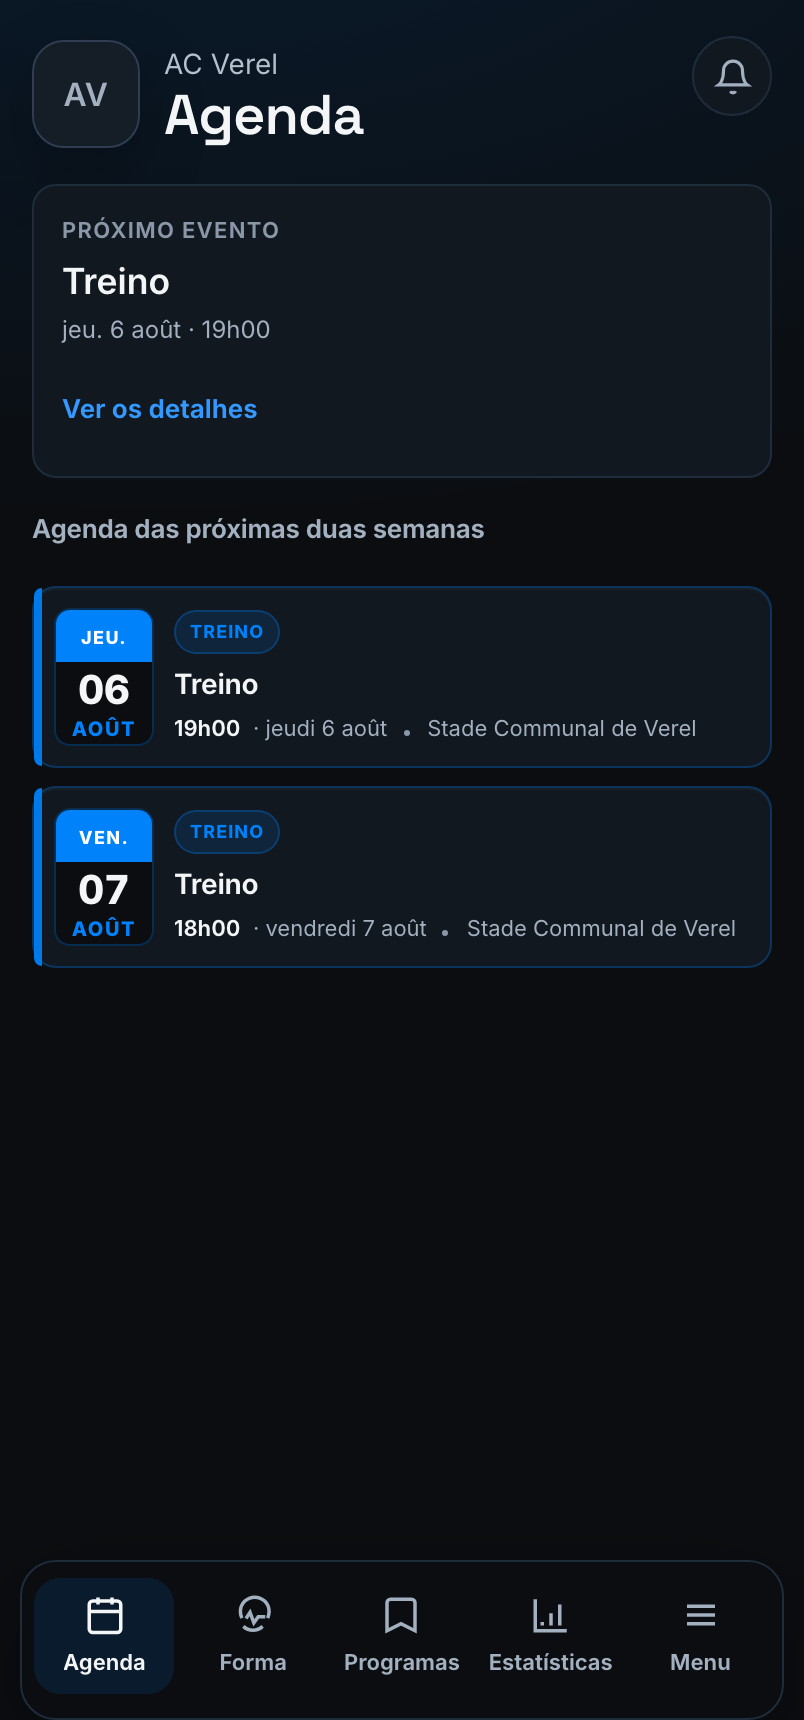
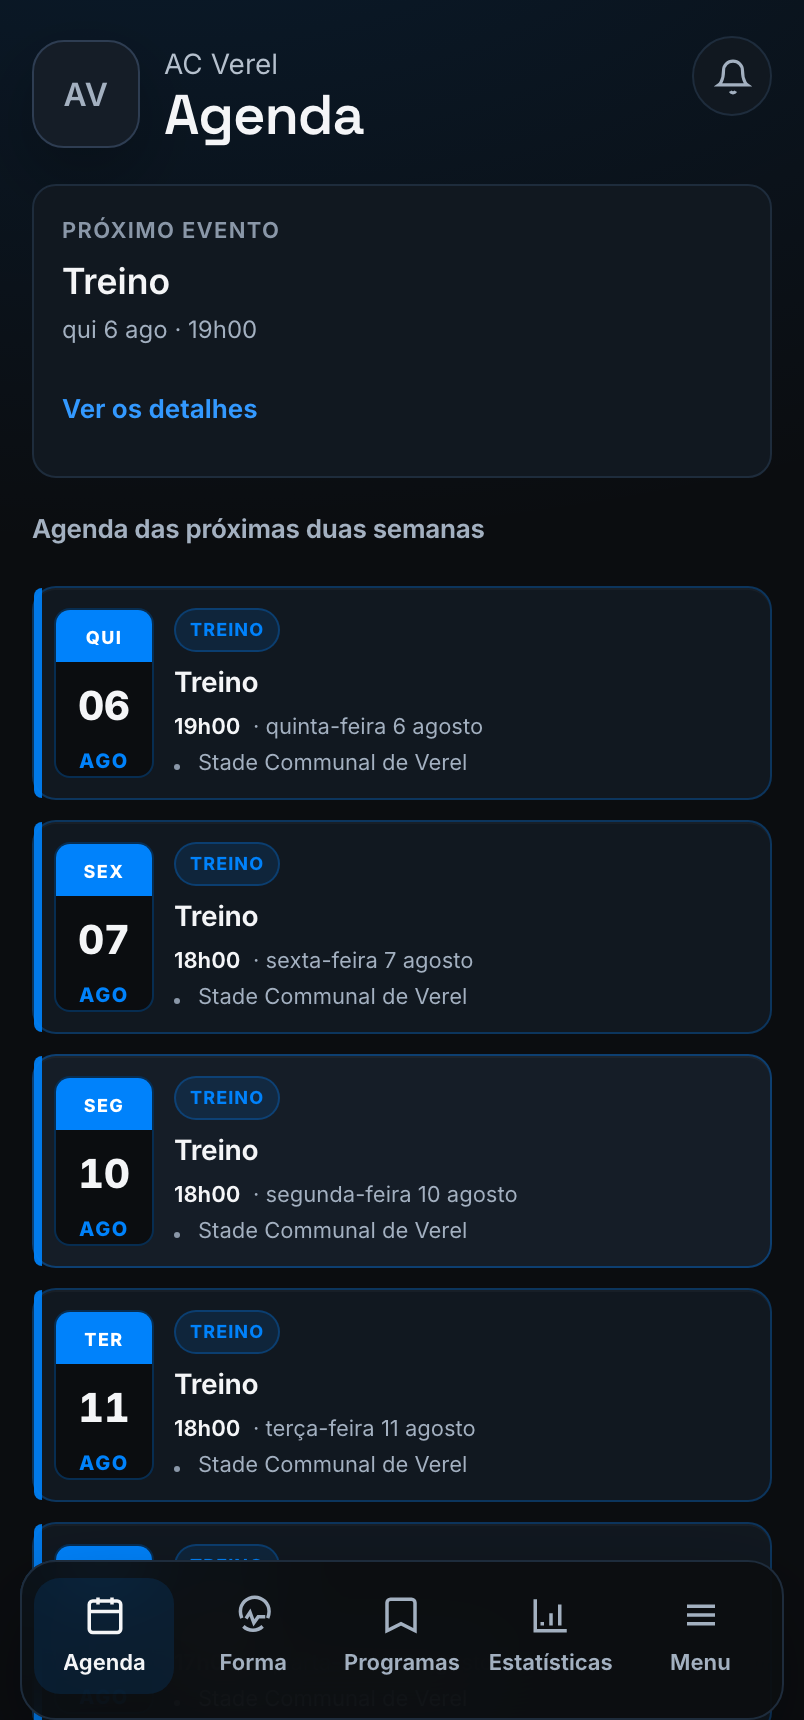
Localize the landing player-app shot and 5 more PT/ES screenshots
The /pt/ and /es/ landing pages showed a French screenshot of the player
app. It was a hand-exported native-iOS image hardcoded in
PremiumLanding.astro with no locale switching, so every locale got the
French one — /en/ included. The orphaned player-app-agenda-en.png never
fixed that: nothing referenced it, and its content was French too.

Replace it with a pipeline capture (capture/player-app-shot.mjs: the
portal agenda, cropped just above the bottom tab bar) in fr/en/pt/es, and
make the <img> locale-aware, sized via pngSize() like the carousels.
nl/de fall back to the English shot rather than another language's UI.

Also capture PT/ES for live-session, live-session-presession,
portal-stats, reports-hub, reports-selection, youth-guardians-card and
youth-team-setting, and wire featuresContent.ts / youthContent.ts to them.

Fixes found along the way:

- go() now throws on 4xx/5xx. Three scouting captures had just been
  written as screenshots of a "404 Not Found" page, which is exactly the
  kind of thing that ships to the marketing site looking real.
- scouting-shots.mjs and live-viewer-shot.mjs hardcoded demo ids that no
  longer exist; both now resolve them from the DB and skip loudly rather
  than capture nothing useful.
- portal-stats-shot.mjs failed on insert: opponent_teams.team_id became
  NOT NULL after the script was written.
- setup-demo.sql mirrors the current week's calendar onto the next one
  (tagged media-demo-mirror, cleared before the snap so re-runs stay
[…]

diff --git a/src/data/featuresContent.ts b/src/data/featuresContent.ts
@@ -4420,13 +4420,13 @@ export const featuresContent: Record<Locale, FeaturesContent> = {
                 caption: 'No tablet à beira do campo: o bloco atual, o seu esquema, as suas instruções.',
               },
               {
-                img: '/screenshots/live-session.png',
+                img: '/screenshots/live-session-pt.png',
                 kind: 'desktop',
                 alt: 'A sessão em direto do lado do staff: linha temporal dos blocos e cronómetro a contar.',
                 caption: 'O staff acompanha a sessão em tempo real: bloco ativo, cronómetro, linha temporal.',
               },
               {
-                img: '/screenshots/live-session-presession.png',
+                img: '/screenshots/live-session-presession-pt.png',
                 kind: 'desktop',
                 alt: 'O ecrã de pré-sessão: o plano está pronto, basta um toque para começar.',
                 caption: 'Antes de começar: a sessão preparada está pronta a entrar em direto.',
@@ -4529,7 +4529,7 @@ export const featuresContent: Record<Locale, FeaturesContent> = {
                 caption: 'O link público: pais e jogadores ausentes acompanham o resultado em direto — sem conta, sem instalar nada.',
               },
               {
-                img: '/screenshots/portal-stats.png',
+                img: '/screenshots/portal-stats-pt.png',
                 kind: 'mobile',
                 alt: 'As estatísticas pessoais de um jogador no portal: minutos jogados, golos, convocatórias.',
                 caption: 'Depois do jogo: cada jogador encontra os seus minutos, golos e convocatórias no portal.',
@@ -4735,13 +4735,13 @@ export const featuresContent: Record<Locale, FeaturesContent> = {
             blurb: 'Escolha os blocos, deixe a IA redigir a primeira versão — e reveja antes de partilhar.',
             slides: [
               {
-                img: '/screenshots/reports-hub.png',
+                img: '/screenshots/reports-hub-pt.png',
                 kind: 'desktop',
                 alt: 'O módulo de relatórios: os relatórios existentes da equipa e o botão para criar um novo.',
                 caption: 'O módulo de relatórios: cada relatório mantém o seu lugar, pronto a reabrir ou a partilhar.',
               },
               {
-                img: '/screenshots/reports-selection.png',
+                img: '/screenshots/reports-selection-pt.png',
                 kind: 'desktop',
                 alt: 'Composição de um relatório: os blocos de presenças, carga e médico selecionados antes da geração.',
                 caption: 'Escolhe os blocos — presenças, carga, médico — e a IA redige a primeira versão.',
@@ -5392,13 +5392,13 @@ export const featuresContent: Record<Locale, FeaturesContent> = {
                 caption: 'En la tablet a pie de campo: el bloque actual, su esquema, sus instrucciones.',
               },
               {
-                img: '/screenshots/live-session.png',
+                img: '/screenshots/live-session-es.png',
                 kind: 'desktop',
                 alt: 'La sesión en directo del lado del cuerpo técnico: línea temporal de bloques y cronómetro en marcha.',
                 caption: 'El cuerpo técnico sigue la sesión en tiempo real: bloque activo, cronómetro, línea temporal.',
               },
               {
-                img: '/screenshots/live-session-presession.png',
+                img: '/screenshots/live-session-presession-es.png',
                 kind: 'desktop',
                 alt: 'La pantalla previa a la sesión: el plan está listo, un toque para empezar.',
                 caption: 'Antes de empezar: la sesión preparada está lista para salir en directo.',
@@ -5501,7 +5501,7 @@ export const featuresContent: Record<Locale, FeaturesContent> = {
                 caption: 'El enlace público: familias y jugadores ausentes siguen el marcador en directo — sin cuenta, sin instalar nada.',
               },
               {
-                img: '/screenshots/portal-stats.png',
+                img: '/screenshots/portal-stats-es.png',
                 kind: 'mobile',
                 alt: 'Las estadísticas personales de un jugador en su portal: minutos jugados, goles, convocatorias.',
                 caption: 'Después del partido: cada jugador encuentra sus minutos, goles y convocatorias en su portal.',
@@ -5707,13 +5707,13 @@ export const featuresContent: Record<Locale, FeaturesContent> = {
             blurb: 'Elige los bloques, deja que la IA redacte la primera versión — y revisa antes de compartir.',
             slides: [
               {
-                img: '/screenshots/reports-hub.png',
+                img: '/screenshots/reports-hub-es.png',
                 kind: 'desktop',
                 alt: 'El módulo de informes: los informes existentes del equipo y el botón para crear uno nuevo.',
                 caption: 'El módulo de informes: cada informe conserva su sitio, listo para reabrir o compartir.',
               },
               {
-                img: '/screenshots/reports-selection.png',
+                img: '/screenshots/reports-selection-es.png',
                 kind: 'desktop',
                 alt: 'Composición de un informe: los bloques de asistencias, carga y médico seleccionados antes de generarlo.',
                 caption: 'Eliges los bloques —asistencias, carga, médico— y la IA redacta la primera versión.',

diff --git a/src/data/youthContent.ts b/src/data/youthContent.ts
@@ -469,7 +469,7 @@ export const youthContent: Record<Locale, YouthContent> = {
         blurb: 'Cada encarregado de educação está associado ao seu filho e recebe a convocatória com um link pessoal. Um toque — Presente, Incerto ou Ausente — e uma nota para o staff, se for preciso. Quem responder primeiro fecha a presença.',
         slides: [
           {
-            img: '/screenshots/youth-guardians-card.png',
+            img: '/screenshots/youth-guardians-card-pt.png',
             kind: 'desktop',
             alt: 'Ficha de jogador STRIVN: encarregados de educação associados à criança, com contactos e respostas às convocatórias',
             caption: 'Os encarregados de educação estão associados ao jogador e respondem às convocatórias em seu nome.',
@@ -493,7 +493,7 @@ export const youthContent: Record<Locale, YouthContent> = {
         blurb: 'Ative o modo formação e o espaço adapta-se à idade do grupo: o assistente de IA e as multas ficam automaticamente ocultos para os jogadores, e os consentimentos dos encarregados de educação são recolhidos e acompanhados no mesmo sítio.',
         slides: [
           {
-            img: '/screenshots/youth-team-setting.png',
+            img: '/screenshots/youth-team-setting-pt.png',
             kind: 'desktop',
             alt: 'Definição de modo formação da equipa STRIVN: escalão etário e funcionalidades ocultas para os jogadores',
             caption: 'O modo formação ativa-se nas definições da equipa, em segundos.',
@@ -577,7 +577,7 @@ export const youthContent: Record<Locale, YouthContent> = {
         blurb: 'Cada tutor está vinculado a su hijo y recibe la convocatoria con un enlace personal. Un toque —Voy, Duda o No voy— y una nota para el cuerpo técnico si hace falta. Quien responde primero cierra la asistencia.',
         slides: [
           {
-            img: '/screenshots/youth-guardians-card.png',
+            img: '/screenshots/youth-guardians-card-es.png',
             kind: 'desktop',
             alt: 'Ficha de jugador en STRIVN: tutores vinculados al menor, con sus datos de contacto y respuestas a las convocatorias',
             caption: 'Los tutores están vinculados al jugador y responden a las convocatorias en su nombre.',
@@ -601,7 +601,7 @@ export const youthContent: Record<Locale, YouthContent> = {
         blurb: 'Activa el modo formación y el espacio se adapta a la edad del grupo: el asistente de IA y las multas se ocultan automáticamente a los jugadores, y los consentimientos de los tutores se recogen y se siguen en un mismo sitio.',
         slides: [
           {
-            img: '/screenshots/youth-team-setting.png',
+            img: '/screenshots/youth-team-setting-es.png',
             kind: 'desktop',
             alt: 'Ajuste de modo formación del equipo en STRIVN: categoría de edad y funciones ocultas a los jugadores',
             caption: 'El modo formación se activa en los ajustes del equipo, en segundos.',
